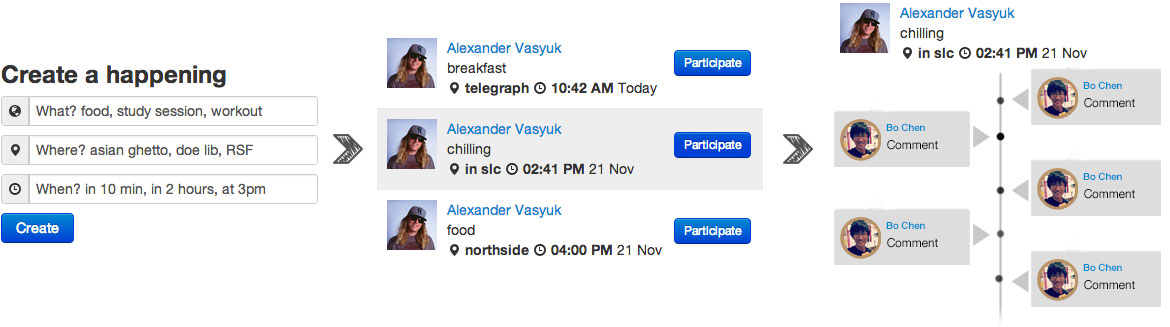
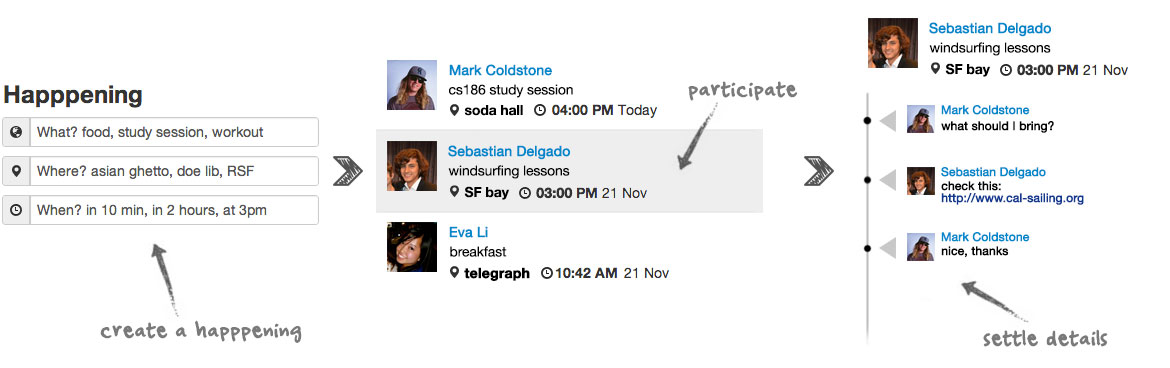
Before launch

diff --git a/app/assets/stylesheets/custom1.css.scss b/app/assets/stylesheets/custom1.css.scss
@@ -215,6 +215,17 @@ li.unread {
   padding-top:20px;
 }
 
+/* Front Page */
+#front_header {
+  font-size: 35px;
+  color: black;
+  margin-bottom: 3px;
+}
+
+#sign_up_button {
+  margin-top: 15px;
+}
+
 /* Modals */
 .modal { 
 	outline: none; 

diff --git a/app/mailers/micropost_mailer.rb b/app/mailers/micropost_mailer.rb
@@ -5,14 +5,14 @@ class MicropostMailer < ActionMailer::Base
     @participant = participant
     @micropost = micropost
     
-    return mail(to: micropost.user.email, from: participant.name + " via Happening <notification@happpening.com>", subject: participant.name + " is now participating in \"" + micropost.content + "\"")
+    return mail(to: micropost.user.email, from: participant.name + " via Happpening <notification@happpening.com>", subject: participant.name + " is now participating in \"" + micropost.content + "\"")
   end
   
   def replied(post)
     @post = post
     @creator = post.micropost.user
     @poster = post.user
-    return mail(to: @creator.email, from: @poster.name + " via Happening <notification@happpening.com>", subject: @poster.name + " has replied to \"" + post.micropost.content + "\"")
+    return mail(to: @creator.email, from: @poster.name + " via Happpening <notification@happpening.com>", subject: @poster.name + " has replied to \"" + post.micropost.content + "\"")
   end
   
   def changed(micropost)
@@ -26,7 +26,7 @@ class MicropostMailer < ActionMailer::Base
       participant = participation.user
       
       if participant.email != @creator.email
-        mails << mail(to: participant.email, from: @creator.name + " via Happening <notification@happpening.com>", subject: @creator.name + " has changed the details of \"" + @micropost.content + "\"")
+        mails << mail(to: participant.email, from: @creator.name + " via Happpening <notification@happpening.com>", subject: @creator.name + " has changed the details of \"" + @micropost.content + "\"")
       end
     end
     
@@ -38,7 +38,7 @@ class MicropostMailer < ActionMailer::Base
   	@user = user
   	@inviter = @micropost.user
 
-  	return mail(to: @user.email, from: @inviter.name + " via Happening <notification@happpening.com>", subject: @inviter.name + " has invited you to \"" + @micropost.content + "\"")
+  	return mail(to: @user.email, from: @inviter.name + " via Happpening <notification@happpening.com>", subject: @inviter.name + " has invited you to \"" + @micropost.content + "\"")
   end
   
   def email_invited(micropost, user, protocol, host, port)
@@ -49,6 +49,6 @@ class MicropostMailer < ActionMailer::Base
   	@host = host
   	@port = port
   	
-  	return mail(to: user.email, from: @creator.name + " via Happening <notification@happpening.com>", subject: @creator.name + " has invited you to participate in \"" + @micropost.content + "\"")
+  	return mail(to: user.email, from: @creator.name + " via Happpening <notification@happpening.com>", subject: @creator.name + " has invited you to participate in \"" + @micropost.content + "\"")
   end
 end

diff --git a/app/mailers/user_mailer.rb b/app/mailers/user_mailer.rb
@@ -1,25 +1,25 @@
 class UserMailer < ActionMailer::Base
   def signed_up(user)
     @user = user
-    mail(to: user.email, from: "\"Happpening\" <notification@happpening.com>", subject: "Welcome to Happpening")
+    mail(to: user.email, from: "\"Happppening\" <notification@happpening.com>", subject: "Welcome to Happpening")
   end
   
   def friend_requested(requester, requestee)
     @requester = requester
     @requestee = requestee
     
-    mail(to: @requestee.email, from: @requester.name + " via Happening <notification@happpening.com>", subject: "Friend request from " + @requester.name)
+    mail(to: @requestee.email, from: @requester.name + " via Happpening <notification@happpening.com>", subject: "Friend request from " + @requester.name)
   end
   
   def friend_accepted(requester, requestee)
     @requester = requester
     @requestee = requestee
     
-    mail(to: @requester.email, from: @requestee.name + " via Happening <notification@happpening.com>", subject: @requestee.name + " has accepted your friend request")
+    mail(to: @requester.email, from: @requestee.name + " via Happpening <notification@happpening.com>", subject: @requestee.name + " has accepted your friend request")
   end
   
   def password_reset(user)
     @user = user
-    mail(to: @user.email, from: "Happening <notification@happpening.com>", subject: "Password Reset")
+    mail(to: @user.email, from: "Happpening <notification@happpening.com>", subject: "Password Reset")
   end
 end

diff --git a/app/controllers/microposts_controller.rb b/app/controllers/microposts_controller.rb
@@ -1,6 +1,7 @@
 require 'csv'
 
 class MicropostsController < ApplicationController
+  include NotificationsHelper
   before_filter :signed_in_user
   before_filter :correct_user, only: :destroy
   
@@ -78,7 +79,12 @@ class MicropostsController < ApplicationController
   	@invitee = User.find(params[:invitee_id])
   	
   	@micropost.add_to_invited(@invitee)
-  	
+    #Creating a notification
+    creator_id = @invitee.id
+    message = User.find(@micropost.user_id).name + " invited you to '" + @micropost.content + "' happpening."
+    link = detail_micropost_path(@micropost.id)
+    create_notification(creator_id, message, link)  
+
   	MicropostMailer.delay.invited(@micropost, @invitee)
   	
   	respond_with @invitee

diff --git a/app/controllers/posts_controller.rb b/app/controllers/posts_controller.rb
@@ -9,7 +9,7 @@ class PostsController < ApplicationController
     if @post.save
       #Creating a notification
       creator_id = Micropost.find(@post.micropost_id).user_id
-      message = current_user.name + " replied to your '" + Micropost.find(@post.micropost_id).content + "' happening."
+      message = current_user.name + " replied to your '" + Micropost.find(@post.micropost_id).content + "' happpening."
       link = detail_micropost_path(@post.micropost_id)
       create_notification(creator_id, message, link)  
       redirect_to :back

diff --git a/app/controllers/participations_controller.rb b/app/controllers/participations_controller.rb
@@ -8,7 +8,7 @@ class ParticipationsController < ApplicationController
 		current_user.participate!(@micropost)
 		#Creating a notification
 		creator_id = @micropost.user_id
-		message = current_user.name + " has participated in your '" + @micropost.content + "' happening"
+		message = current_user.name + " has participated in your '" + @micropost.content + "' happpening"
 		link = detail_micropost_path(@micropost.id)
 		create_notification(creator_id, message, link) 
 		MicropostMailer.delay.participated(current_user, @micropost)

diff --git a/app/controllers/sessions_controller.rb b/app/controllers/sessions_controller.rb
@@ -4,7 +4,7 @@ class SessionsController < ApplicationController
   end
 
   def create
-    user = User.find_by_email(params[:session][:email])
+    user = User.find_by_email(params[:session][:email].downcase)
     timezone = params[:session][:timezone] || params[:session][:timezone_on_signin]
     if user && !user.temp && user.authenticate(params[:session][:password])
       sign_in(user, timezone)

diff --git a/app/helpers/application_helper.rb b/app/helpers/application_helper.rb
@@ -2,7 +2,7 @@ module ApplicationHelper
 
   # Returns the full title on a per-page basis.
   def full_title(page_title)
-    base_title = "Happening"
+    base_title = "Happpening"
     if page_title.empty?
       base_title
     else
